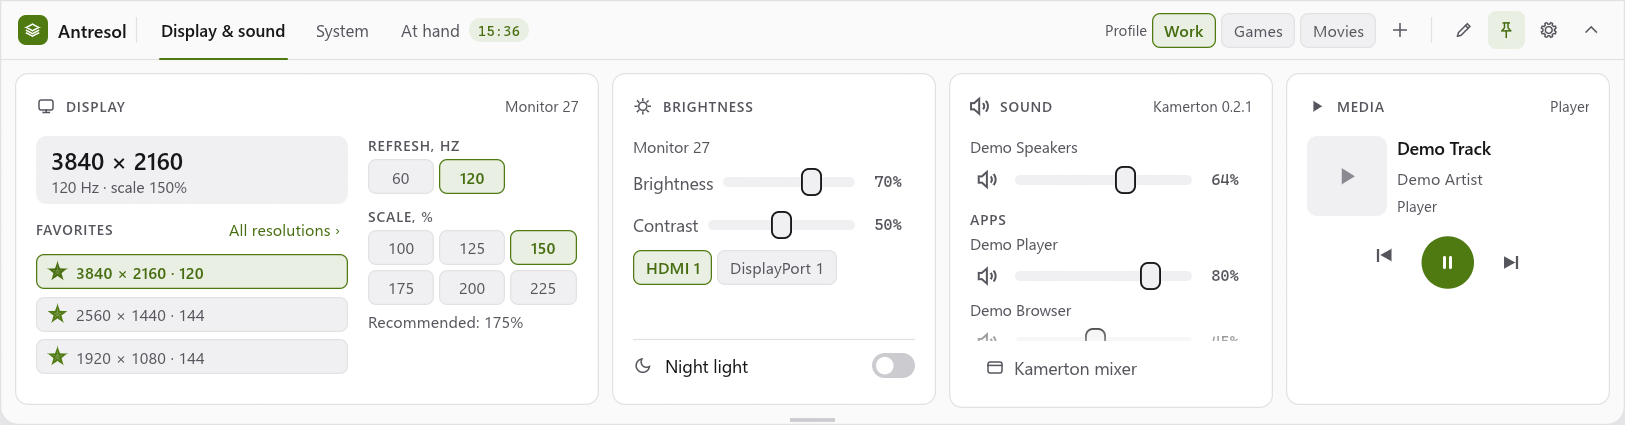
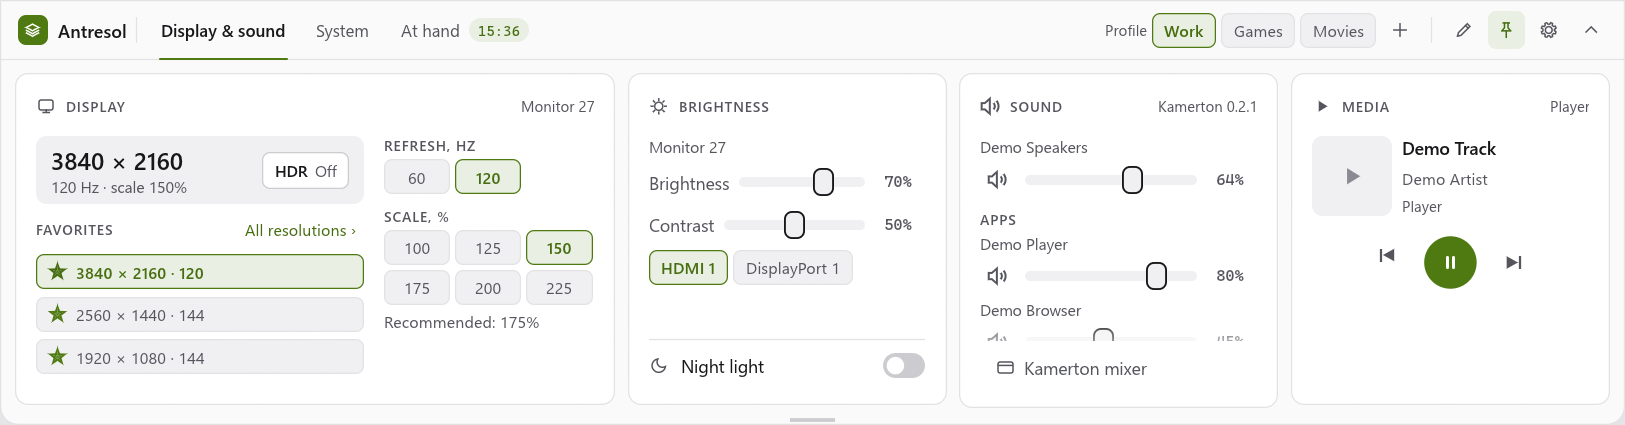
HDR: docs, UI guideline, screenshots, OpenSpec notes, SPEC and HANDOFF
- docs: usage (HDR button, profiles with HDR, hdr/sdr in profile=, rolling back
  to a version before 2.0), architecture (DisplayConfig advanced color, demo
  world), development notes, README.
- UI guideline: the HDR button (section 5), minimum Display card width,
  notifications, states, deviations, journal entry.
- docs/img: panel and shelf-editing screenshots (dark RU, light EN) re-taken in
  demo mode on the invented monitor, with the HDR button.
- OpenSpec hdr-toggle: tasks ticked, "Clarified during implementation" notes,
  extra scenarios. SPEC: stage 2.0; HANDOFF: state, findings, live-check debts.

diff --git a/docs/ui-guideline.md b/docs/ui-guideline.md
@@ -1,6 +1,6 @@
 # Гайдлайн интерфейса Antresol
 
-Правила вида панели, сняты с кода 0.1.0 и дополнены в 0.2.0–1.9.0 (22–26.10.2026). Общие правила семьи — `Anvil/docs/STYLE.md` и
+Правила вида панели, сняты с кода 0.1.0 и дополнены в 0.2.0–2.0.0 (22–26.10.2026). Общие правила семьи — `Anvil/docs/STYLE.md` и
 `Anvil/docs/MOTION.md`; общие правила поведения и вида всех программ — общий гайдлайн UX/UI владельца (скил `ui-guideline`),
 как они выглядят здесь — §9. Здесь — то, что своё у панели. Новое правило — сюда в том же шаге, что и код.
 
@@ -13,7 +13,8 @@
 
 - **Полки.** Карточки разложены по полкам — вкладкам в шапке (по умолчанию «Экран и звук», «Система», «Под рукой»);
   на экране — одна строка карточек открытой полки; каждая карточка — модуль. Доля ширины — `Module::weight`
-  (Экран 1,8, остальные 1); наименьшая ширина — `Module::min_width` (Экран 420, Звук, Ресурсы, GitHub и Быстрые
+  (Экран 1,8, остальные 1); наименьшая ширина — `Module::min_width` (Экран 420, а если у какого-то монитора есть HDR —
+  480, при выборе монитора шире, но не больше 560, чтобы «Экран и звук» влезала в 1300; Звук, Ресурсы, GitHub и Быстрые
   настройки 240, остальные 220: пять карточек влезают в 1300): не влезают — ряд листается вбок, полоса прокрутки
   снизу; у каждой полки своя прокрутка. Ширины — `fit_widths`: доли `weight`, но не меньше `min_width`; кому мало — тот
   на минимуме, остальные делят остаток. Какие карточки, на какой полке и в каком порядке — правка полок на самой
@@ -123,9 +124,10 @@
   ничего не убрано»; ниже `note` «Крестик на карточке убирает её сюда. Щелчок по ней — вернуть на эту полку.»
 - Пустая полка: по центру `note` «На этой полке пусто» и `Ghost` «Изменить полки» (`Pencil`).
 - Свои кнопки — `Kind::Secondary` со значком; «Править кнопки» — `Kind::Ghost`.
-- Уведомления набора (`Toasts`): ошибка — `Tone::Danger`, предел избранного — `Warning`, пояснение
-  после смены масштаба и «профиль уже стоит» — `Neutral`, нет мониторов или режима из профиля, «сначала
-  ответьте» и «это сочетание показа панели» — `Warning`; «Откреплено» (история выключена, текст пропал) — `Neutral`;
+- Уведомления набора (`Toasts`): ошибка (в том числе смены HDR) — `Tone::Danger`, предел избранного — `Warning`, пояснение
+  после смены масштаба и «профиль уже стоит» — `Neutral`, нет мониторов или режима из профиля, «Windows сейчас не даёт
+  включить HDR…» при применении профиля, «сначала ответьте» и «это сочетание показа панели» — `Warning`; «Откреплено»
+  (история выключена, текст пропал) — `Neutral`;
   подтверждение режима — баннер `Warning`
   с «Оставить» (главная) и «Вернуть».
 - Настройки — три карточки: «Панель», «Профили экрана», «Оформление». Строка профиля: имя
@@ -140,11 +142,20 @@
 
 - Карточка «Экран»: справа в заголовке — имя монитора (нет имени — «Монитор N»; основной при нескольких мониторах —
   « · основной»; `DISPLAYn` — в подсказке); слева — плашка текущего режима (`raised`, скругление 8, «2560 × 1440» полужирным 19,
-  под ним 12,5 `weak` «144 Гц · масштаб 125 %»; мониторов несколько — `segmented` справа), «Избранное» и справа
+  под ним 12,5 `weak` «144 Гц · масштаб 125 %»; справа по центру по высоте кнопка «HDR» и, если мониторов несколько, —
+  `segmented` (крайний справа, «HDR» левее него; зазор 8)), «Избранное» и справа
   в той же строке ссылка «Все разрешения ›» (`accent_text` 13); строки избранного 28 во всю ширину — звезда и
   «2560 × 1440 · 144», стоящее — как выбранный чип. «Все разрешения» — список вместо избранного, назад —
   «‹ Избранное». Справа колонкой 168 — «Частота, Гц» и «Масштаб, %» сеткой по три, ниже рекомендованный.
   «Сделать основным» — ссылка `accent_text` под строкой режима в плашке. Избранное пусто — пояснение `note`.
+- **Кнопка «HDR»** в плашке «Экрана» (`Display::hdr_button`): высота 30 (как у `segmented`), поля 10 по бокам, скругление 6;
+  «HDR» полужирным 12,5 и через 6 состояние «Вкл» / «Выкл» обычным 12,5. Выключено — `card`, рамка `border_strong`, «HDR»
+  `text`, состояние `weak`, под мышью `hover`; включено — `badge_fill(accent)`, рамка `accent`, весь текст `accent_text`;
+  Windows не даёт включить — рамка `border`, текст `faint`, не нажимается (§9). Кольцо фокуса, курсор «рука», для диктора —
+  переключатель «HDR» с состоянием. Подсказка — «HDR этого монитора. Win+Alt+B переключает все мониторы сразу», у
+  недоступной — «Windows сейчас не даёт включить HDR на этом мониторе». Монитор HDR не умеет — кнопки нет. Не помещается
+  рядом с текстом режима и выбором монитора — без слова состояния (остаётся «HDR»), не помещается и так — не рисуется;
+  поэтому наименьшая ширина карточки с HDR — 480 (§1). Смена — без «Оставить?»: обратима тем же щелчком (§9).
 - Карточка «Ресурсы»: строка — подпись `weak` слева, значение `mono` `text` справа, под ней `progress`
   набора (доля); график процессора — `raised` 28 высотой, линия 1,5 `accent` по последним 40 замерам. Подпись и
   значение не влезают в одну строку — значение под подписью. Строка «Температура» — как остальные, без полосы.
@@ -231,9 +242,11 @@
   переносом; `segmented` — только 2–3 варианта в настройках (и номер монитора в шапке); поле сочетания —
   `hotkey_field` с состоянием словами; имя полки — поле на месте вкладки.
 - **Поверх окна:** диалогов нет; подтверждения — баннером `Warning` в карточке («Оставить» / «Вернуть»,
-  «Переключить» / «Отмена»).
+  «Переключить» / «Отмена»). Обратимое одним щелчком — без подтверждения: HDR («HDR Вкл / Выкл»), как в Windows; HDR из
+  профиля идёт в то же «Оставить этот режим?».
 - **Состояния:** недоступное — `faint` и не нажимается (плитки «Недоступно», «Медиа на спрятанной полоске» без полоски,
-  «Ночной свет» без состояния); читаемый текст — `weak`, не `faint`; нет Kamerton — пояснение и кнопка, что сделать;
+  «Ночной свет» без состояния, «HDR», когда Windows не даёт его включить); читаемый текст — `weak`, не `faint`; нет
+  Kamerton — пояснение и кнопка, что сделать;
   ожидание — `spinner` и `note`; пустое избранное и пустая полка — `note` (у полки ещё кнопка).
 - **Тексты:** единицы переводятся («Гц»/«Hz»).
 - **Не как в общем гайдлайне:** акцент выбирает пользователь (лайм по умолчанию и свой цвет — решение владельца
@@ -245,10 +258,15 @@
 Снимки панели в обеих темах и на обоих языках (`config.txt`: `lang=`, `theme=`), только вырезка панели; в демо-режиме, на
 выдуманном экране (`\\.\DISPLAY9`), без настоящих режимов монитора и без занятых на ПК сочетаний, а в английских — без
 русских демо-текстов (профили, буфер, часы и кнопки сцены — по её языку). Шапку смотреть и на узкой панели (560, 700).
+Кнопку «HDR» в «Экране» — в обеих темах и на обоих языках, на панели 1300 и 560: в демо выдуманный монитор стартует с
+выключенным HDR; включённую, недоступную и рядом с выбором монитора (несколько мониторов) смотрят временной правкой
+выдуманного мира на своей копии — в репозиторий она не идёт.
 
 ## 11. Известные отклонения
 
 - Значок программы — временно знак набора `Icon::Layers`.
+- Кнопка «HDR» в плашке «Экрана» — свой виджет на цветах и шрифтах набора (как чипы и плитки): кнопки-переключателя с
+  состоянием словом в наборе нет.
 - Подсказки (`on_hover_text`) у нижнего края панели могут обрезаться окном.
 - Кнопки «назад» и «вперёд» полоски с медиа — свой рисунок (в наборе таких значков нет), без кольца фокуса; у карточки
   «Медиа» кольцо есть.
@@ -313,3 +331,4 @@
   подтверждения входа, «Полка» на девяти полках — с подсказкой, «Откреплено» при выключенной истории, подсказка монитора
   «имя · DISPLAYn».
 - 26.10.2026 — каталог анимаций на холсте, страница «Движение — 26.10» (предложение, ждёт слова владельца): 18 мест по шкале Anvil — смена полки, правка, плитки, «Скопировано», «Оставить?» с отсчётом и др.; список — SPEC, «Кандидаты — анимации».
+- 26.10.2026 — 2.0.0 «HDR одним щелчком» (решение владельца 26.10.2026: идеи со звёздочкой — по одной после «Проще»; макет на холсте, страница «Идеи ★ — 26.10»): кнопка «HDR Вкл / Выкл» справа в плашке режима «Экрана» (§5), HDR в профилях экрана; наименьшая ширина «Экрана» с HDR — 480, при выборе монитора шире, но не больше 560 (§1).

diff --git a/HANDOFF.md b/HANDOFF.md
@@ -1,9 +1,20 @@
 # Antresol — передача дел
 
-Обновлено 26.10.2026. Версия 1.9.0 (1.9 — «Проще»: полки, правка на месте, OpenSpec `simpler-shelves`; 1.7 — температура и часы поясов, OpenSpec `clocks-temp`; 1.6 — заготовки, пипетка, текст с экрана, OpenSpec `clip-tools`; 1.5 — система: «не спать», тема, уведомления, Wi‑Fi, план питания, VPN, OpenSpec `system`; 1.4 — ночной свет и основной монитор, OpenSpec `screen-extras`; 1.3 — звук через Kamerton, OpenSpec `kamerton-sound`; 1.2.1 — спрятанная панель не забирает фокус при щелчке по полоске; этап 1.2 — новый вид по макету, OpenSpec `new-look`, не архивирован; 1.1 — GitHub, `github`; 1.0 — таймеры, `timers`; 0.9 — правка и Bluetooth, `edit-bluetooth`; 0.8 — буфер и лоток, `clipboard-tray`; 0.7 — ресурсы, `resources`; 0.6 — сама панель, `panel-itself`; 0.5 — медиа, `media`; 0.4 — яркость, `monitor-brightness`; 0.3 — профили экрана с горячими клавишами, OpenSpec `display-profiles` архивирован 22.10.2026, спецификация — `openspec/specs/display-profiles`).
+Обновлено 26.10.2026. Версия 2.0.0 (2.0 — HDR одним щелчком: кнопка в «Экране» и HDR в профилях, OpenSpec `hdr-toggle`; 1.9 — «Проще»: полки, правка на месте, OpenSpec `simpler-shelves`; 1.7 — температура и часы поясов, OpenSpec `clocks-temp`; 1.6 — заготовки, пипетка, текст с экрана, OpenSpec `clip-tools`; 1.5 — система: «не спать», тема, уведомления, Wi‑Fi, план питания, VPN, OpenSpec `system`; 1.4 — ночной свет и основной монитор, OpenSpec `screen-extras`; 1.3 — звук через Kamerton, OpenSpec `kamerton-sound`; 1.2.1 — спрятанная панель не забирает фокус при щелчке по полоске; этап 1.2 — новый вид по макету, OpenSpec `new-look`, не архивирован; 1.1 — GitHub, `github`; 1.0 — таймеры, `timers`; 0.9 — правка и Bluetooth, `edit-bluetooth`; 0.8 — буфер и лоток, `clipboard-tray`; 0.7 — ресурсы, `resources`; 0.6 — сама панель, `panel-itself`; 0.5 — медиа, `media`; 0.4 — яркость, `monitor-brightness`; 0.3 — профили экрана с горячими клавишами, OpenSpec `display-profiles` архивирован 22.10.2026, спецификация — `openspec/specs/display-profiles`).
 
 ## Где мы
 
+- 2.0.0 — HDR одним щелчком (26.10.2026, решение владельца: идеи «второго круга» со звёздочкой — по одной; OpenSpec
+  `hdr-toggle`, не архивирован): кнопка «HDR Вкл / Выкл» справа в плашке режима «Экрана» (только этот монитор, без
+  «Оставить?»; нет HDR у монитора — нет кнопки; Windows не даёт включить — кнопка серая с причиной), HDR в профилях экрана
+  (`hdr` / `sdr` после масштаба в `profile=`; «+» записывает, щелчок ставит, «Вернуть» возвращает), чтение и смена —
+  `display::hdr` / `display::set_hdr` через DisplayConfig за заслоном, выдуманный монитор с HDR в демо и тестах.
+  Проверено на ПК: fmt, тесты (131), clippy; снимки в демо-режиме (`scripts/shots.ps1`: панель и правка полок, обе темы и
+  языка; включённую, серую кнопку и выбор монитора смотрели временной правкой выдуманного мира, в репозиторий она не
+  пошла). Настоящий HDR и режим экрана этого ПК не трогали. **Вживую владелец не проверял:** кнопку на своём мониторе
+  (читается ли состояние, переключается ли только он, виден ли за 1,5 с HDR, включённый Win+Alt+B, серая ли кнопка, когда
+  Windows не даёт включить), профиль с HDR («+», щелчок, «Оставить этот режим?» → «Вернуть» возвращает и HDR), ширину
+  «Экрана» 480 на его панели.
 - 1.9.0 — «Проще» (26.10.2026, решение владельца по макету «Проще» на холсте «Antresol — новый вид»; OpenSpec
   `simpler-shelves`, не архивирован): полки-вкладки (`shelf=`, `hidden=`), правка на месте (карандаш; перетаскивание за
   ручку в ряду, на вкладку и в «Убранные», клавиатура), «Тишина» и «Wi‑Fi» без обрезанных подписей, «Ночной свет»
@@ -34,6 +45,16 @@
 
 ## Решения и находки
 
+- 2.0: HDR — старые типы DisplayConfig (`GET_ADVANCED_COLOR_INFO` 9, `SET_ADVANCED_COLOR_STATE` 10) у `targetInfo` пути
+  монитора. Windows 11 24H2 добавила `…_INFO_2` и `SET_HDR_STATE`; старые работают и там, но на мониторе владельца не
+  проверено — если кнопки нет или она не переключает, пробовать новые типы. Монитору, которому Windows навязывает широкий
+  цвет (`wideColorEnforced`), кнопки нет. Профиль не гонится за HDR там, где монитор его не умеет (`profile_active`: нет
+  HDR — считается совпавшим, «Этот профиль уже стоит»); не может поставить (Windows не даёт включить) — предупреждение,
+  остальное ставится. Версии до 2.0 слов `hdr` / `sdr` не знают (откат версии — в usage). `Display::min_width`: 420, а с
+  HDR у монитора 480 (с выбором монитора — шире, до 560): иначе кнопка не помещалась рядом с «120 Гц · масштаб 150 %»;
+  при нескольких мониторах в узкой плашке слово состояния уходит, потом и кнопка. Вертикальный запас карточки «Экран» в
+  340 — около 8 точек (три избранных), поэтому кнопка не выше плашки (высота плашки от HDR не зависит); при нескольких
+  мониторах и ссылке «Сделать основным» плашка выше, и третье избранное обрезается — так было и до 2.0, не тронуто.
 - 1.9: на полке «Система» пять карточек должны влезать в 1300 точек — наименьшую ширину «Быстрых настроек», «Ресурсов»
   и «GitHub» снизили с 260 до 240; поле «owner/repo» в «GitHub» стало уступать кнопке «Добавить». Строка заголовка
   карточки — 20, а не 28 (иначе «Экран» с тремя избранными не влезал в 340). Вуаль правки — отдельный слой
@@ -97,6 +118,9 @@
 ## Ждёт владельца (долги)
 
 Проверить вживую (сессии курсор не двигают и настройки владельца не меняют):
+- 2.0 — HDR: кнопка «HDR» в «Экране» на его мониторе (состояние читается; переключается только этот монитор, а не все; HDR,
+  включённый Win+Alt+B, виден за 1,5 с; кнопка серая, когда Windows не даёт включить); профиль с HDR: «+», щелчок по нему,
+  «Оставить этот режим?» → «Вернуть» возвращает HDR. Всё это в демо проверено только на выдуманном мониторе.
 - 1.9 — полки: вкладки (щелчок, колесо, Ctrl+Tab, Ctrl+1…9), метка таймера на вкладке; правка: ручка → ряд, вкладка,
   «Убранные», крестики, «Полка», двойной щелчок по вкладке, «Как было», Esc; «Закрепить» в «Буфере обмена»; «Ночной свет»
   выключателем; свой старый `config.txt` (порядок карточек внутри полок после перехода).
@@ -119,6 +143,8 @@
 - Значок программы (сейчас знак набора `Layers`) — по скилам иконок.
 - Окна (раскладки, «поверх всех», перенос) — владелец 22.10.2026: не нужны.
 - Архив изменения OpenSpec `simpler-shelves` (1.9.0) — по слову владельца после живой проверки.
+- Архив изменения OpenSpec `hdr-toggle` (2.0.0) — по слову владельца после живой проверки.
 - Идеи «второго круга» (SPEC, 26.10.2026) и макеты восьми со звёздочкой — тот же холст, страница «Идеи ★ — 26.10»:
-  владелец 26.10.2026 — делать по одной после «Проще»; какая первая — его выбор. В код не перенесены.
+  владелец 26.10.2026 — делать по одной после «Проще». HDR перенесён в код (2.0.0); остальные не перенесены, какая
+  следующая — его выбор.
 - Анимации — каталог на том же холсте, страница «Движение — 26.10» (предложение): что внедрять — слово владельца.

diff --git a/docs/architecture/overview.md b/docs/architecture/overview.md
@@ -9,8 +9,8 @@
 | `src/look.rs` | цвет программы: пять готовых (лайм — по умолчанию) и свой — вывод под тему с контрастом 4,5:1, HSV, `accent=` |
 | `src/panel.rs` | логика «показана / спрятана» без окна (тесты) |
 | `src/modules/` | модули: `display.rs`, `brightness.rs`, `media.rs`, `resources.rs`, `clipboard.rs`, `tray.rs`, `bluetooth.rs`, `timers.rs`, `github.rs`, `buttons.rs`, `sound.rs`, `quick.rs` (быстрые настройки), `tools.rs` (пипетка, текст с экрана), `clocks.rs`; общий `Module` и полки по умолчанию (`DEFAULT_SHELVES`) в `mod.rs` |
-| `src/sys/` | Windows: `monitor.rs` (мониторы, курсор, полноэкранное), `display.rs` (режимы, масштаб; в демо и тестах — выдуманный экран), `ddc.rs` (DDC/CI; HMONITOR берётся из `Monitor::handle`), `media.rs` (медиа-сеансы WinRT, обложка через WIC), `kamerton.rs` (канал к Kamerton), `nightlight.rs` (ночной свет), `system.rs` («не спать», тема, уведомления, план питания), `net.rs` (Wi‑Fi, VPN), `ocr.rs` (картинка из буфера, распознавание текста), `tz.rs` (часовые пояса), `res.rs` (ресурсы), `clip.rs` (буфер обмена), `bt.rs` (Bluetooth), `gh.rs` (GitHub по WinHTTP), `mod.rs` (запуск, горячая клавиша, автозапуск, скругление окна, цвет акцента Windows; заслон писателей `isolated` / `blocked` / `real_write`) |
-| `src/config.rs` | `config.txt` (в том числе полки `shelf=`, убранные карточки `hidden=`, закреплённые тексты `snippet=`, профили `profile=`, избранное `favorite=`, частоты `rate=`, лоток `tray=`) и `buttons.txt`; операции над полками |
+| `src/sys/` | Windows: `monitor.rs` (мониторы, курсор, полноэкранное), `display.rs` (режимы, масштаб, HDR; в демо и тестах — выдуманный экран), `ddc.rs` (DDC/CI; HMONITOR берётся из `Monitor::handle`), `media.rs` (медиа-сеансы WinRT, обложка через WIC), `kamerton.rs` (канал к Kamerton), `nightlight.rs` (ночной свет), `system.rs` («не спать», тема, уведомления, план питания), `net.rs` (Wi‑Fi, VPN), `ocr.rs` (картинка из буфера, распознавание текста), `tz.rs` (часовые пояса), `res.rs` (ресурсы), `clip.rs` (буфер обмена), `bt.rs` (Bluetooth), `gh.rs` (GitHub по WinHTTP), `mod.rs` (запуск, горячая клавиша, автозапуск, скругление окна, цвет акцента Windows; заслон писателей `isolated` / `blocked` / `real_write`) |
+| `src/config.rs` | `config.txt` (в том числе полки `shelf=`, убранные карточки `hidden=`, закреплённые тексты `snippet=`, профили `profile=` (после режима монитора по желанию масштаб и `hdr` / `sdr`), избранное `favorite=`, частоты `rate=`, лоток `tray=`) и `buttons.txt`; операции над полками |
 | `src/texts.rs` | строки RU/EN |
 | `src/shot.rs` | `ANTRESOL_SHOT`: снимок своего окна в PNG (для документации) |
 
@@ -59,6 +59,22 @@
   или она упала — настоящий режим в реестре остался прежним; после падения до перезагрузки стоит неподтверждённый.
 - Масштаб — `DisplayConfigGetDeviceInfo` / `SetDeviceInfo` с недокументированными пакетами −3/−4:
   масштаб задаётся шагом от рекомендованного по шкале 100…500 %.
+- HDR — «расширенный цвет» DisplayConfig у **цели** (`targetInfo`) того пути, чей источник — `\\.\DISPLAYn` (путь ищется
+  так же, как имя монитора и масштаб, — `source_of`): `DisplayConfigGetDeviceInfo` с `GET_ADVANCED_COLOR_INFO` (9) отдаёт биты
+  «поддерживается», «включён», «широкий цвет навязан Windows» (выключить нельзя — это не переключатель HDR, у такого монитора
+  `Hdr::supported` ложно) и «Windows не даёт включить» (`force_disabled`); смена — `DisplayConfigSetDeviceInfo` с
+  `SET_ADVANCED_COLOR_STATE` (10), бит `enableAdvancedColor`. Отказ («HDR нет» или Windows не даёт включить) —
+  `display::hdr_allowed`, до самого вызова. Меняется один монитор, а не все, как Win+Alt+B; Windows запоминает HDR сама и
+  ничего не спрашивает, поэтому из карточки он ставится без «Оставить?». Windows 11 24H2 добавила
+  `GET_ADVANCED_COLOR_INFO_2` и `SET_HDR_STATE`; старые типы работают и там — их и берём (проверка на настоящем мониторе —
+  за владельцем). Состояние читается вместе с режимом (`Display::refresh`, раз в 1,5 с), так что HDR, включённый снаружи,
+  виден сразу.
+- HDR в профилях — `ProfileMonitor::hdr: Option<bool>` (`hdr` — включить, `sdr` — выключить, нет слова — не трогать;
+  слова идут после масштаба, а читаются в любом порядке). `Display::apply_profile` ставит HDR после режима и масштаба и
+  только если он записан, монитор его умеет и стоит иначе; прежнее значение лежит в `Change::hdr`, и `revert` (кнопка
+  «Вернуть», 15 секунд, закрытие программы) возвращает его первым. «Стоящий» профиль (`profile_active`) — тот, у которого
+  совпали режим, масштаб и (там, где монитор умеет HDR) HDR. Версии до 2.0 слов `hdr` / `sdr` не знают (см. «Откат на
+  версию до 2.0» в [usage](../guide/usage.md)).
 - Яркость, контраст, вход — DDC/CI (`dxva2`: физические мониторы логического, коды VCP 0x10, 0x12,
   0x60, строка возможностей для списка входов). Запросы медленные (десятки мс, строка возможностей — до
   секунды), поэтому идут в потоке модуля «Яркость»: окно шлёт ему «перечитай» (входы — раз за запуск) и
@@ -114,7 +130,7 @@
 
 Демо (`ANTRESOL_DEMO=1`, снимки в открытый репозиторий) и тесты работают не с настоящей Windows, а с выдуманной
 (`sys::isolated()`): настоящее только читается, и то не всё. Правило демо: клавиш профилей нет, монитор несуществующий
-(`\\.\DISPLAY9`, 4K, свои режимы и масштаб — `static` в `sys/display.rs`, у него два режима, как у настоящего: «сейчас» и
+(`\\.\DISPLAY9`, 4K, свои режимы, масштаб и HDR — `static` в `sys/display.rs`, у него два режима, как у настоящего: «сейчас» и
 «в реестре»), в Windows ничего не пишется. Устроено так:
 
 - **Заслон** — первой строкой каждого писателя (`sys::blocked("что")` — режим экрана, `ddc::set`, реестр, `launch`,
@@ -123,10 +139,12 @@
   паникует, то есть пропущенный заслон роняет тест раньше, чем что-то поменяется на этом ПК. Тест
   `every_windows_write_is_behind_the_guard` читает исходники и следит, что `real_write` стоит у каждого такого вызова —
   новый писатель без заслона тест не пропустит.
-- **Выдуманный экран.** `display::monitors/current/modes/scale/apply/commit/set_scale/set_primary` в выдуманном мире
+- **Выдуманный экран.** `display::monitors/current/modes/scale/hdr/apply/commit/set_scale/set_hdr/set_primary` в выдуманном мире
   работают с `static` (монитор — один, основной, на карточки он виден под именем `\\.\DISPLAY9`, в тестах — под тем, что
   дал тест, чтобы тесты не мешали друг другу). Так откат («Оставить?», закрытие, 15 секунд) проверяется без окна:
-  `Display::shutdown` возвращает режим, масштаб и основной, а в «реестре» (`display::saved`) остаётся прежнее.
+  `Display::shutdown` возвращает режим, масштаб, HDR профиля и основной, а в «реестре» (`display::saved`) остаётся
+  прежнее. HDR у выдуманного монитора есть и вначале выключен; `display::fake_hdr` (только в тестах) ставит ему другое
+  состояние — «нет HDR» или «Windows не даёт включить», — чтобы проверить отказы.
   DDC/CI в выдуманном мире — один монитор «Monitor 27» (`ddc::read`).
 - **Клавиши.** Потока клавиш нет вовсе (`start_hotkey` его не заводит): ни одно сочетание не занято и не перехвачено, а
   каким сочетаниям на этом ПК «занято» — не узнать; панель и профили с клавишей «работают». Автозапуск — выдуманный.

diff --git a/openspec/changes/hdr-toggle/design.md b/openspec/changes/hdr-toggle/design.md
@@ -45,3 +45,30 @@ now"; «Вкл» / «Выкл» — существующие.
 
 - `ADVANCED_COLOR` в Windows 11 24H2 дополнен новыми типами (`GET_ADVANCED_COLOR_INFO_2`, `SET_HDR_STATE`); старые
   работают и там — берём их, проверка на ПК владельца — вживую им самим.
+
+## Уточнено при реализации (26.10.2026)
+
+- **Что такое «поддерживает».** `Hdr::supported` — бит «поддерживается» без бита «широкий цвет навязан Windows»
+  (`wideColorEnforced`): такой монитор выключить нельзя, значит, переключателя HDR у него нет и кнопки тоже. Разбор битов —
+  `hdr_from` (тест `hdr_bits`).
+- **Отказ — до вызова.** `display::hdr_allowed`: нет HDR у монитора или Windows не даёт включить (`force_disabled`) —
+  `Err` без обращения к Windows; выключить можно всегда. То же правило в выдуманном мире, поэтому тесты проверяют отказы
+  (`fake_hdr` — только в тестах — ставит выдуманному монитору состояние «нет HDR» или «Windows не даёт включить»).
+- **Ошибка смены** — уведомление `Danger` со строкой `failed` («Не получилось: …»), как у режима и масштаба (в замысле
+  было «Не удалось»); состояние после отказа перечитывается.
+- **Место в плашке.** Рядом с «144 Гц · масштаб 125 %» кнопка «HDR Выкл» при наименьшей ширине «Экрана» 420 не
+  помещалась (вертикальный запас карточки в 340 — около 8 точек, поэтому не вниз, а вширь): наименьшая ширина
+  `Display::min_width` — 420 без HDR, 480 при HDR у какого-то монитора, при нескольких мониторах (выбор номера справа от
+  кнопки) шире, но не больше 560 — полка «Экран и звук» по-прежнему влезает в 1300. Всё равно не хватило места (узкая плашка,
+  пять и больше мониторов) — слово состояния уходит, потом и кнопка. Зазор в плашке 8, а не 16.
+- **«Стоящий» профиль** не гонится за тем, что поставить нельзя: у монитора без HDR (или не прочиталось) HDR профиля не
+  сверяется. Профиль, у которого HDR поставить не удалось (Windows не даёт включить — предупреждение `hdr_blocked`, сбой —
+  `failed`), остальное ставит и «Этот профиль уже стоит» не говорит.
+- **Откат.** `Change::hdr` хранит прежний HDR; `revert` возвращает его первым, потом режим и масштаб. HDR, как и масштаб,
+  Windows запоминает сама: при падении программы он не откатится (при закрытии — откатится).
+- **`profile=`.** Слова `hdr` / `sdr` читаются без учёта регистра и в любом порядке с масштабом, пишутся после него
+  (`… 100% hdr`): так версия 1.9 прочтёт профиль с масштабом, не заметив слова. Незнакомое слово и повтор — строка негодная,
+  как и раньше для не числа в масштабе.
+- Демо-сцены (`scripts/shots.ps1`): профиль «Кино» — с `hdr`; выдуманный монитор стартует с выключенным HDR, поэтому в
+  `docs/img` кнопка «HDR Выкл»; включённую, недоступную и рядом с выбором монитора смотрели временной правкой выдуманного
+  мира на своей копии (в репозиторий не вошла).

diff --git a/docs/dev/development.md b/docs/dev/development.md
@@ -17,7 +17,8 @@ python E:/dev_personal/tools/checks.py --repo . -j 4 fmt test clippy
 (`config.rs`), что каждый модуль стоит на готовой полке (`modules/mod.rs`), правка полок без окна — перетаскивание, клавиши,
 переименование, вуаль над модулями (мышь, колесо, клавиатура), ряд в правке и «Ещё N ›», шапка на узких панелях
 (`app.rs`, модуль `tests`), заслон писателей в Windows, выдуманный экран и откат «Оставить?» без окна (`sys/mod.rs`,
-`sys/display.rs`, `modules/display.rs`),
+`sys/display.rs`, `modules/display.rs`), HDR: биты ответа Windows, отказы, выдуманный монитор (`sys/display.rs`), кнопка,
+профили с HDR и их откат (`modules/display.rs`), слова `hdr` / `sdr` в `profile=` (`config.rs`),
 адреса Bluetooth и настоящий опрос (`sys/bt.rs`),
 таймеры и «помидор» (`modules/timers.rs`), разбор ответов GitHub и время (`sys/gh.rs`,
 `modules/github.rs`). Сеть — отдельно: `cargo test -- --ignored` читает открытый репозиторий панели.
@@ -27,7 +28,7 @@ python E:/dev_personal/tools/checks.py --repo . -j 4 fmt test clippy
 - `target\debug\antresol.exe` — в debug видна консоль с журналом (по-английски).
 - `ANTRESOL_TRACE=1` — печатать каждую смену места или размера окна (доля выезда, место, размер, тема) и
   что ответили мониторы по DDC/CI.
-- `ANTRESOL_DEMO=1` — выдуманный мир: монитор (4K, свои режимы и масштаб), звук Kamerton, часы (от 10:00 UTC, свой
+- `ANTRESOL_DEMO=1` — выдуманный мир: монитор (4K, свои режимы, масштаб и HDR — вначале выключен), звук Kamerton, часы (от 10:00 UTC, свой
   пояс — UTC), яркость и входы, трек, ресурсы, диски и программа на переднем плане (`player.exe`): снимки для
   открытого репозитория (`docs/img`) — только так, на демо-настройках (папка `antresol-scratch\demo`).
   **Правило демо: клавиш профилей нет, монитор несуществующий (`\\.\DISPLAY9`), в Windows ничего не пишется** (заслон
@@ -50,7 +51,7 @@ python E:/dev_personal/tools/checks.py --repo . -j 4 fmt test clippy
   `powershell -NoProfile -File scripts\squeeze-png.ps1 -In снимок.png -Out docs\img\имя.png` (без потерь, ~100 КБ).
 - Снимки захватом экрана — только для своей проверки после запуска (панель видна 2 с). Курсор не двигать: за ПК может
   работать владелец. В `docs/img` класть только вырезку самой панели.
-- Не нажимать в проверках смену режима экрана, основного монитора, ночного света, темы, уведомлений, Wi‑Fi, VPN, плана питания, масштаба, яркости и автозапуск без команды
+- Не нажимать в проверках смену режима экрана, HDR, основного монитора, ночного света, темы, уведомлений, Wi‑Fi, VPN, плана питания, масштаба, яркости и автозапуск без команды
   владельца — это его настройки. Окно для проверки запускать только с `ANTRESOL_DEMO=1` (и своей папкой настроек): так
   оно этих настроек не касается.
 

diff --git a/openspec/changes/hdr-toggle/tasks.md b/openspec/changes/hdr-toggle/tasks.md
@@ -1,15 +1,16 @@
 ## 1. HDR
 
-- [ ] 1.1 `sys/display.rs`: чтение и смена HDR через DisplayConfig, заслон `sys::blocked`, выдуманный монитор с HDR;
+- [x] 1.1 `sys/display.rs`: чтение и смена HDR через DisplayConfig, заслон `sys::blocked`, выдуманный монитор с HDR;
       тесты (выдуманный мир, заслон)
-- [ ] 1.2 «Экран»: кнопка «HDR» в плашке, недоступная с причиной, уведомление об ошибке, перечитывание с режимом
-- [ ] 1.3 Профили: `hdr`/`sdr` в `profile=`, сохранение и применение, откат «Оставить?» с HDR, «стоящий» профиль;
+- [x] 1.2 «Экран»: кнопка «HDR» в плашке, недоступная с причиной, уведомление об ошибке, перечитывание с режимом
+- [x] 1.3 Профили: `hdr`/`sdr` в `profile=`, сохранение и применение, откат «Оставить?» с HDR, «стоящий» профиль;
       тесты разбора и записи (порядок слов, старые строки)
-- [ ] 1.4 Тексты RU/EN
+- [x] 1.4 Тексты RU/EN
 
 ## 2. Сдача
 
-- [ ] 2.1 Снимки «Экрана» в демо (`scripts\shots.ps1`): тёмная RU и светлая EN, каждый открыть и посмотреть
-- [ ] 2.2 `checks.py fmt test clippy` зелёные
-- [ ] 2.3 docs (`guide/usage.md`, `architecture/overview.md`), `docs/ui-guideline.md` (кнопка HDR, журнал), SPEC
-      («Этап 2.0 — HDR»), HANDOFF; сверка судьёй
+- [x] 2.1 Снимки «Экрана» в демо (`scripts\shots.ps1`): тёмная RU и светлая EN, каждый открыть и посмотреть
+- [x] 2.2 `checks.py fmt test clippy` зелёные
+- [x] 2.3 docs (`guide/usage.md`, `architecture/overview.md`), `docs/ui-guideline.md` (кнопка HDR, журнал), SPEC
+      («Этап 2.0 — HDR»), HANDOFF
+- [ ] 2.4 Сверка судьёй (docs с кодом)

diff --git a/openspec/changes/hdr-toggle/specs/hdr/spec.md b/openspec/changes/hdr-toggle/specs/hdr/spec.md
@@ -13,6 +13,14 @@ show the toggle disabled with the reason. A change made outside the panel SHALL 
 - **WHEN** монитор панели HDR не поддерживает
 - **THEN** кнопки «HDR» в плашке нет
 
+#### Scenario: Windows не даёт включить
+- **WHEN** монитор поддерживает HDR, но Windows сейчас не даёт его включить
+- **THEN** кнопка «HDR» недоступна, в подсказке причина
+
+#### Scenario: HDR включили снаружи
+- **WHEN** HDR монитора включили Win+Alt+B или в «Параметрах», а панель открыта
+- **THEN** при ближайшем чтении (раз в 1,5 с) кнопка показывает «HDR Вкл»
+
 ### Requirement: HDR в профилях экрана
 A saved display profile SHALL remember HDR of every monitor that supports it and applying the profile MUST set it;
 profiles saved before this change MUST leave HDR untouched.
@@ -20,6 +28,10 @@ profiles saved before this change MUST leave HDR untouched.
 #### Scenario: Профиль «Кино»
 - **WHEN** «Кино» сохранён с включённым HDR, а сейчас HDR выключен
 - **THEN** щелчок по «Кино» ставит режим и включает HDR; «Вернуть» в «Оставить этот режим?» возвращает и HDR
+
+#### Scenario: Профиль до 2.0
+- **WHEN** профиль сохранён до этого изменения (в строке `profile=` нет слов `hdr` / `sdr`)
+- **THEN** его применение и откат HDR не трогают
 
 ### Requirement: HDR в демо и тестах
 In demo mode and tests the HDR toggle SHALL work on the invented monitor only and MUST NOT write to Windows.

diff --git a/docs/README.md b/docs/README.md
@@ -38,8 +38,9 @@
 четырнадцать карточек на трёх полках (какие карточки, на какой полке и в каком порядке — правка полок прямо
 на панели, карандаш в шапке):
 
-- **Экран** — разрешение, частота, масштаб выбранного монитора; избранное (до трёх разрешений) с
-  запомненной частотой, «Сделать основным» (профили всех мониторов с горячими клавишами — в шапке);
+- **Экран** — разрешение, частота, масштаб выбранного монитора; кнопка «HDR» (включает HDR только этого монитора, а не
+  всех сразу, как Win+Alt+B); избранное (до трёх разрешений) с запомненной частотой, «Сделать основным» (профили всех
+  мониторов с горячими клавишами — режим, масштаб и HDR — в шапке);
 - **Быстрые настройки** — плитки: «Не спать», тёмная тема Windows, «Тишина», Wi‑Fi; план питания; VPN Windows;
 - **Яркость** — яркость, контраст и вход внешних мониторов по DDC/CI; внизу — выключатель «Ночной свет»;
 - **Медиа** — что играет и кнопки «Назад», «Пауза», «Вперёд»;

diff --git a/README.md b/README.md
@@ -1,7 +1,7 @@
 # Antresol
 
 Панель быстрого доступа у верхнего края монитора для Windows: прячется за край, выезжает по
-касанию края мышью или по горячей клавише. Экран (разрешение, частота, масштаб, избранное,
+касанию края мышью или по горячей клавише. Экран (разрешение, частота, масштаб, HDR монитора, избранное,
 профили с горячими клавишами), яркость, контраст и вход внешних мониторов (DDC/CI), ночной свет, звук (через
 [Kamerton](https://github.com/AgitAngst/Kamerton): громкость устройства и программ), медиа (что играет, «назад»,
 «пауза», «вперёд»), быстрые настройки (не спать, тёмная тема, «Тишина», Wi‑Fi, план питания, VPN), ресурсы (процессор,
